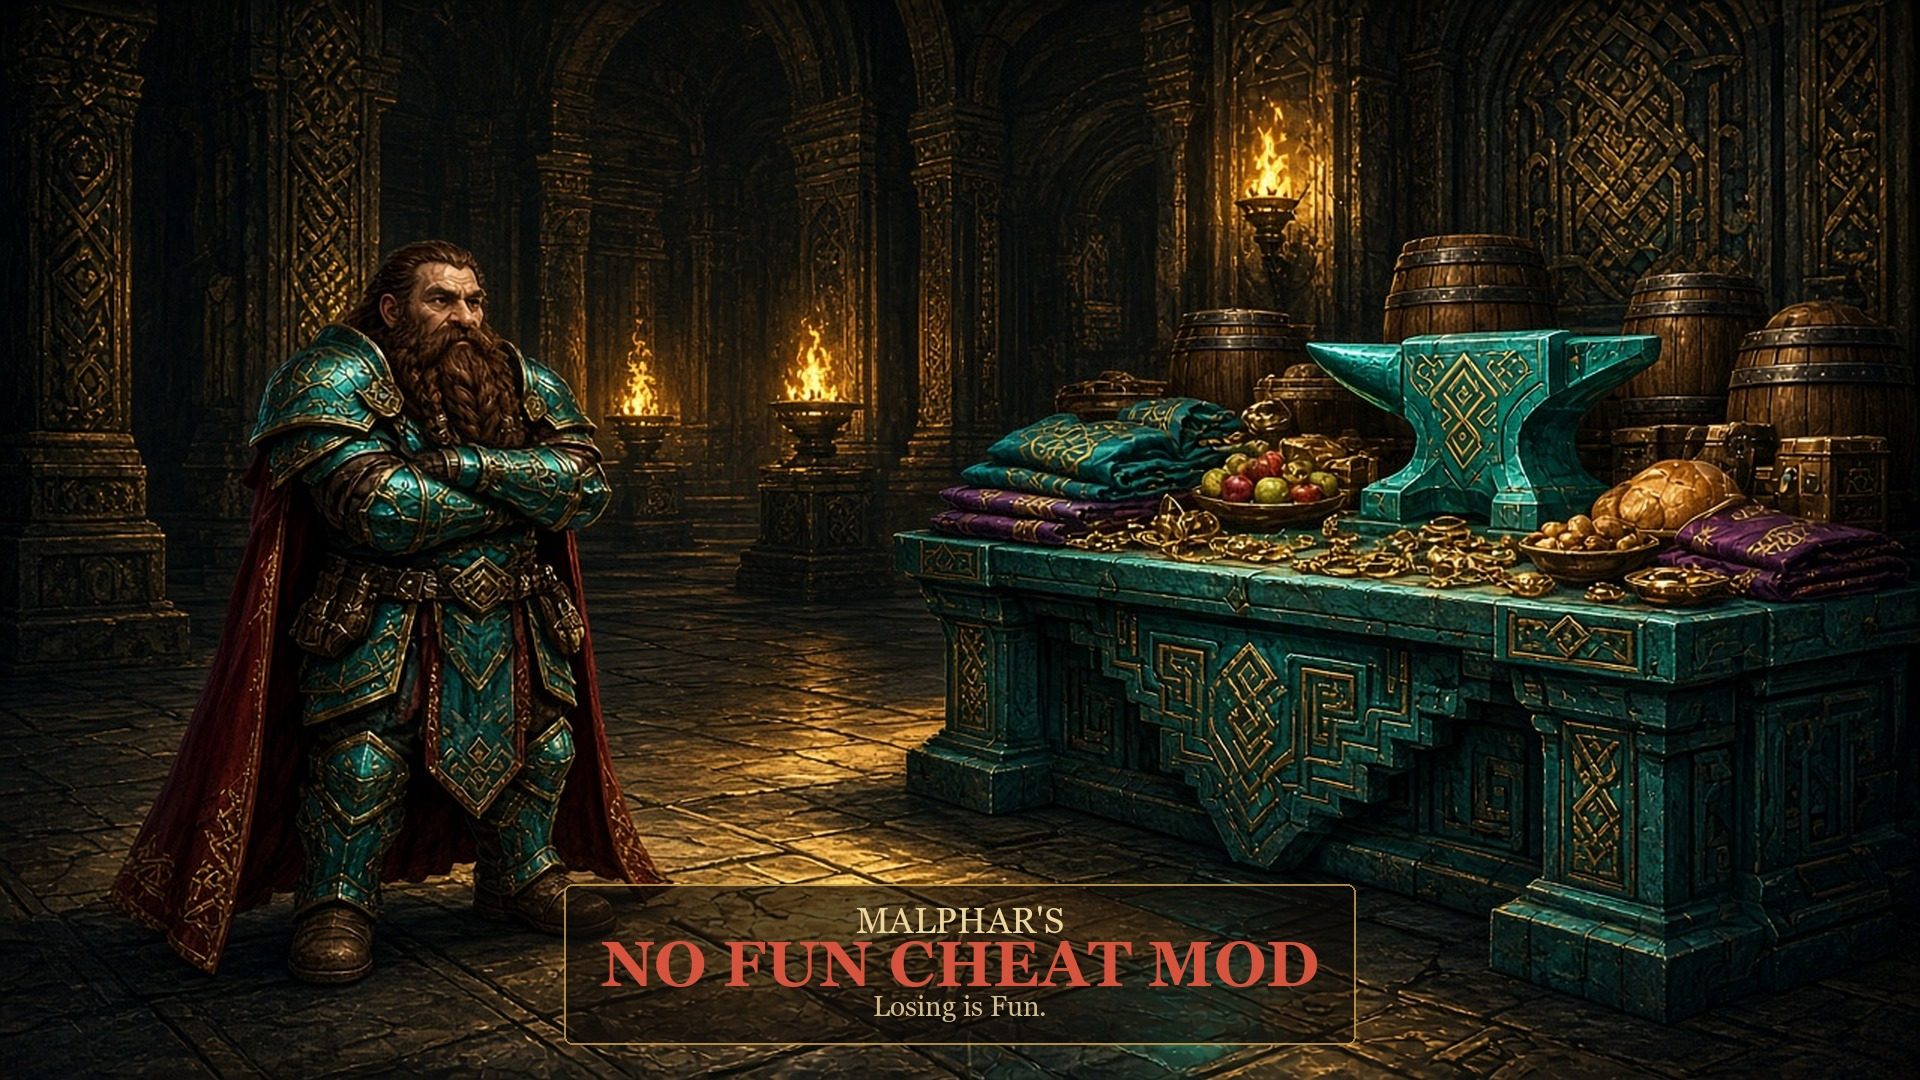
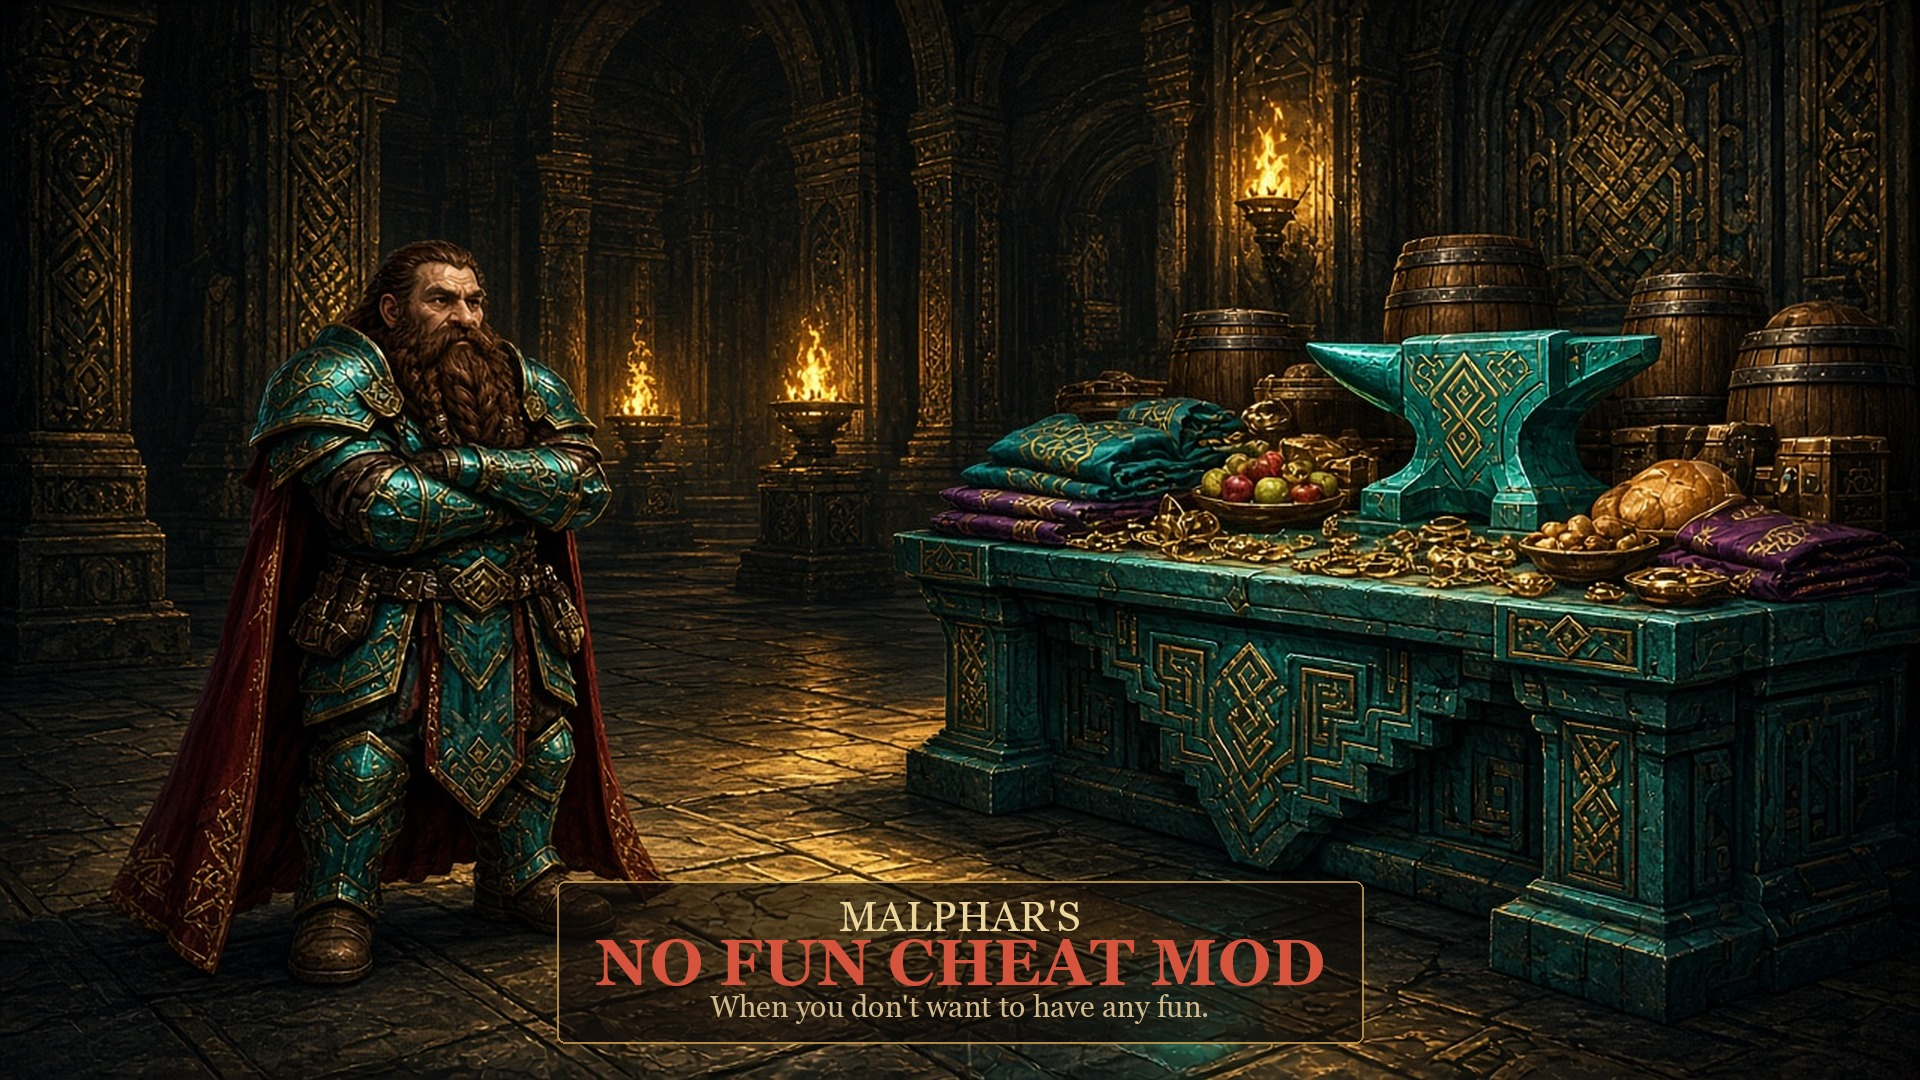
Change the subtitle to when you don't want to have any fun.
The banner, the Steam preview, and the listings use that line instead of Losing is Fun.

Changed region(s): [[0.2812, 0.7944, 0.7188, 0.9778]]

diff --git a/Dwarf Fortress/README.md b/Dwarf Fortress/README.md
@@ -6,6 +6,4 @@ Mods for the Steam release of Dwarf Fortress. They expect [DFHack](https://githu
 
 | Mod | Version | What it is |
 |-----|---------|------------|
-| [Malphar's No Fun Cheat Mod](./malphars-no-fun-cheat-mod) | 1.4.0 | God-mode dwarves, adamantine placement, a cheat workshop, and standing supplies. It removes Fun. |
-
-Losing is Fun. Fun is the flood, the beast, the shortage, and the collapse. A fortress that cannot be lost is not Fun.
+| [Malphar's No Fun Cheat Mod](./malphars-no-fun-cheat-mod) | 1.4.0 | God-mode dwarves, adamantine placement, a cheat workshop, and standing supplies. For when you don't want to have any fun. |

diff --git a/Dwarf Fortress/malphars-no-fun-cheat-mod/README.md b/Dwarf Fortress/malphars-no-fun-cheat-mod/README.md
@@ -2,9 +2,9 @@
 
 This was an exercise in whether this kind of mod could be made, not whether it should.
 
-> Losing is **Fun**. Fun is the flooded fortress, the beast from the cavern, the werebeast you did not notice, the shortage, and the collapse of a fort you cared about.
+> For when you don't want to have any fun.
 >
-> This mod removes Fun. All of it. A fortress that cannot be lost is not Fun.
+> The flooded fortress, the beast from the cavern, the werebeast you did not notice, the shortage, and the collapse are taken away. There is nothing left to lose.
 
 | | |
 |---|---|

diff --git a/README.md b/README.md
@@ -6,7 +6,7 @@ Mods and small projects, grouped by game.
 
 | Mod | What it is |
 |-----|------------|
-| [Malphar's No Fun Cheat Mod](./Dwarf%20Fortress/malphars-no-fun-cheat-mod) | A DFHack cheat mod for Steam Dwarf Fortress. It was an exercise in whether this kind of mod could be made. It removes Fun. |
+| [Malphar's No Fun Cheat Mod](./Dwarf%20Fortress/malphars-no-fun-cheat-mod) | A DFHack cheat mod for Steam Dwarf Fortress. For when you don't want to have any fun. |
 
 ## Layout
 
